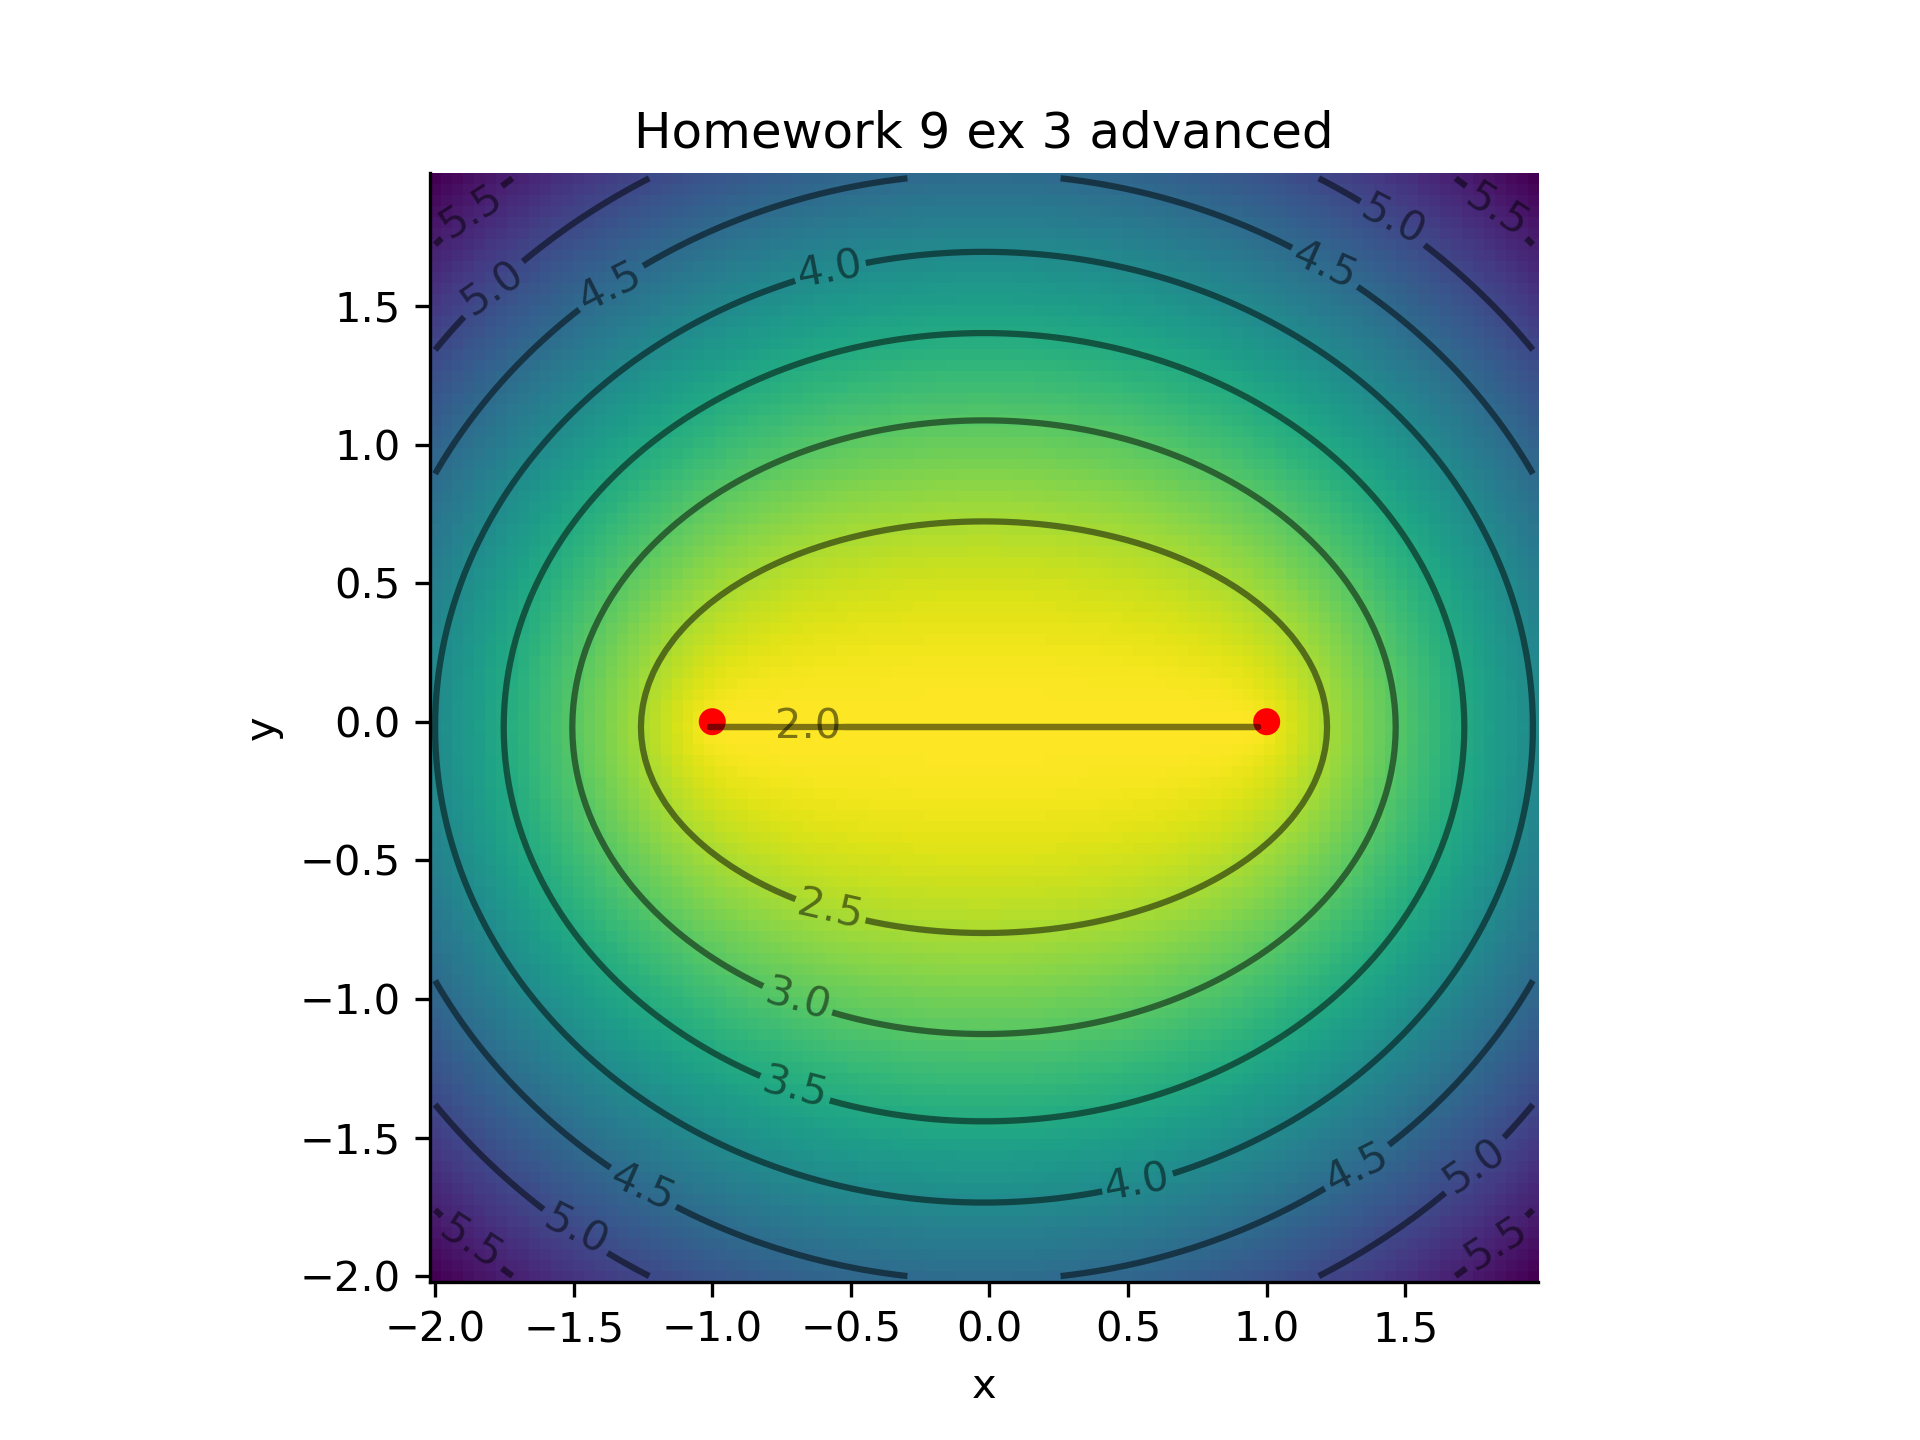
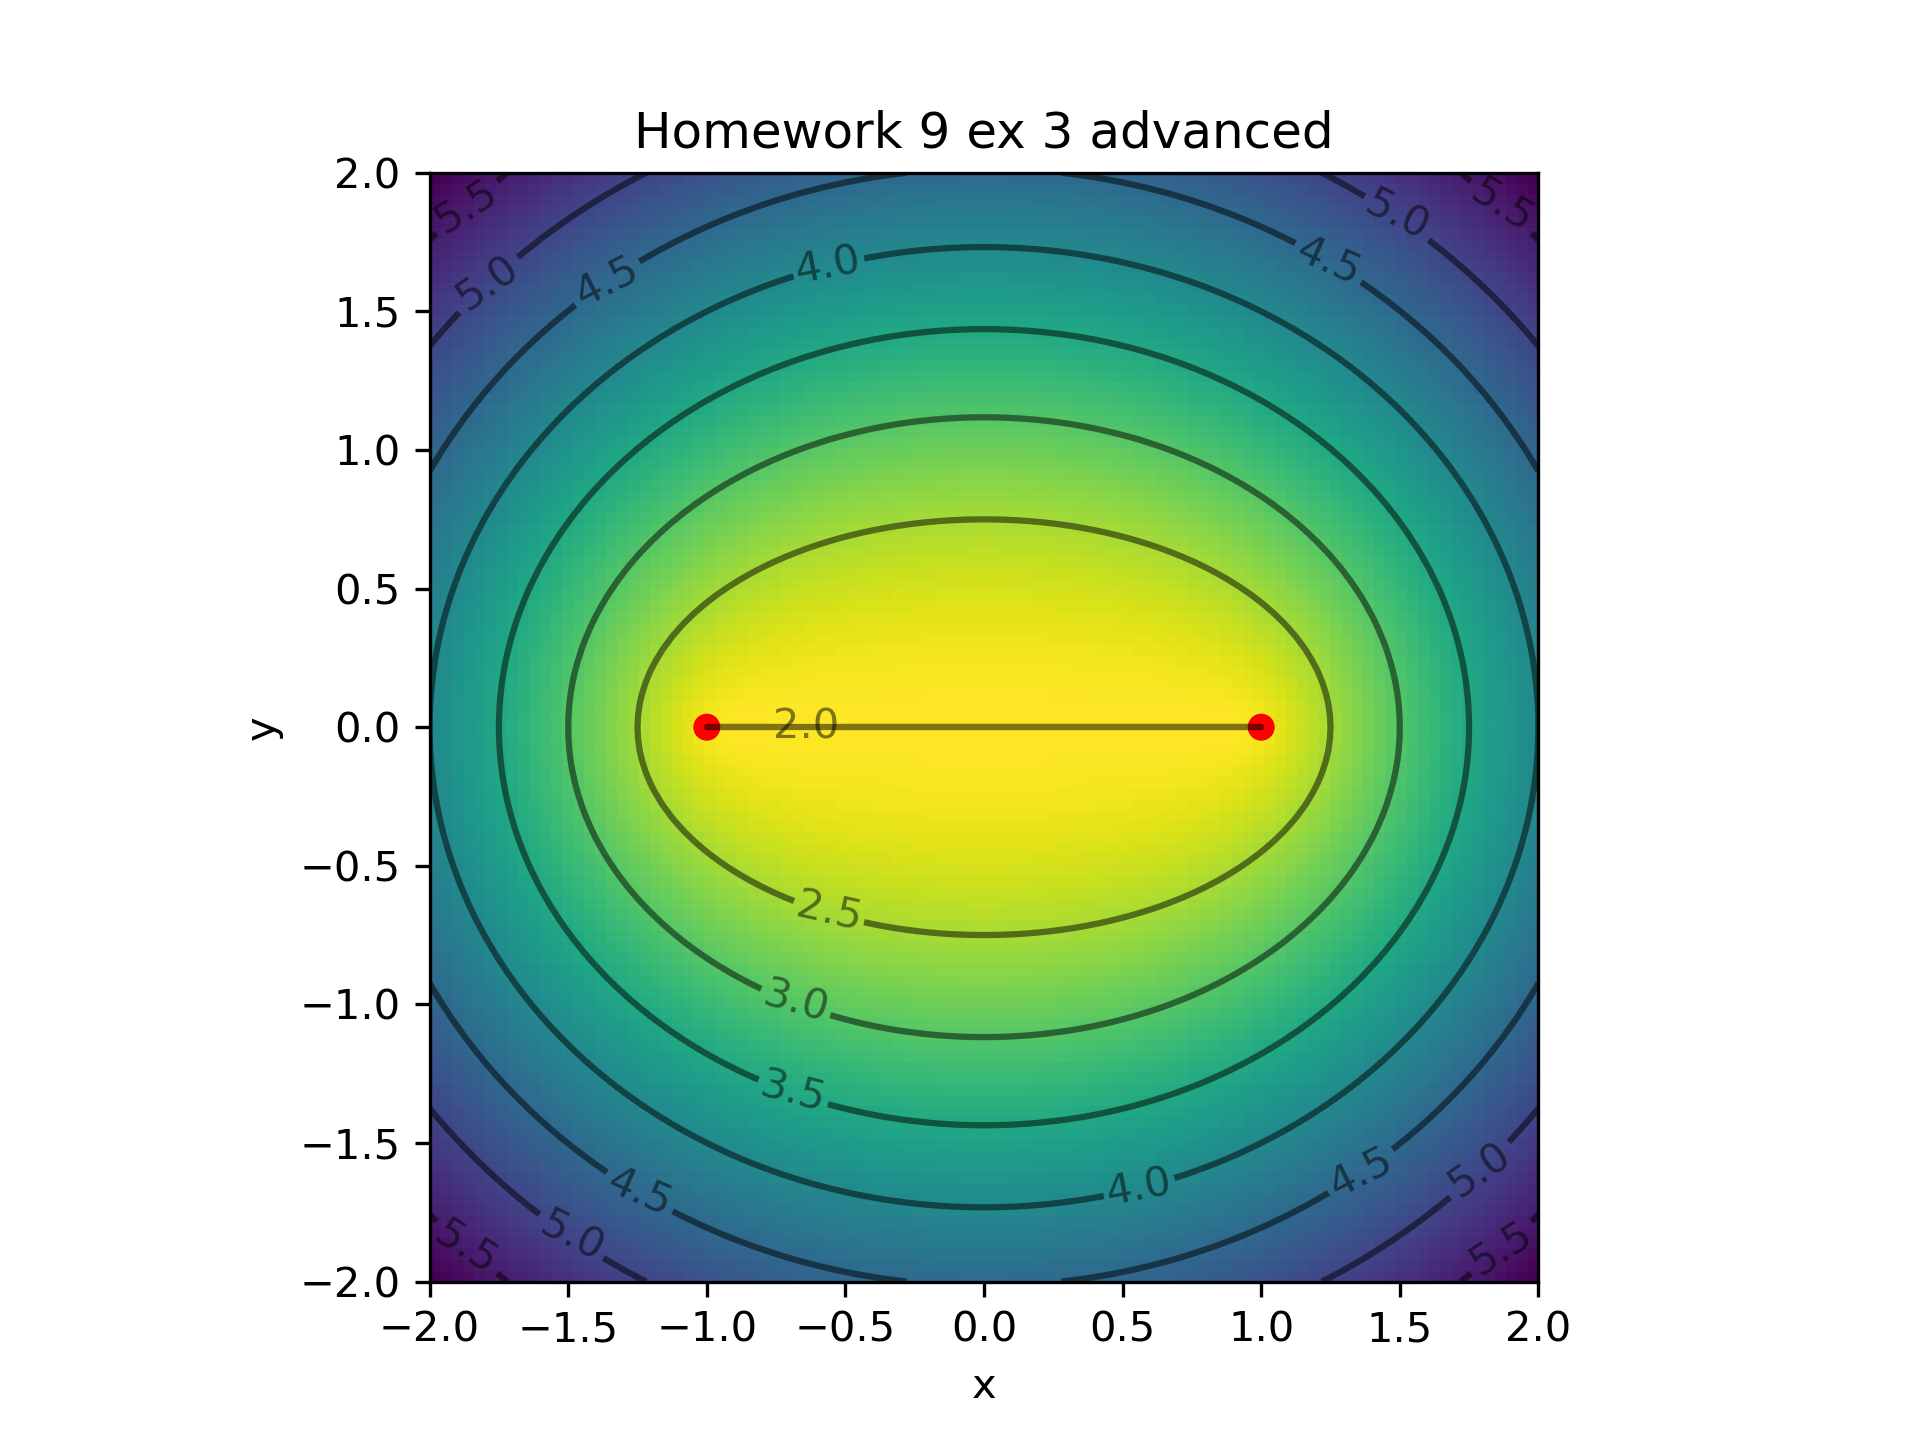
Homework 9 ex 3 correction

diff --git a/Homeworks/ex9-3.py b/Homeworks/ex9-3.py
@@ -42,37 +42,29 @@ fig, ax = plt.subplots(1, 1)
 
 # Focus definition and computations
 f1, f2 = (-1, 0), (1, 0)
-zzz = np.empty((nx*ny))
+zz = np.empty((nx*ny))
 for idx, point in enumerate(points.transpose()):
-    zzz[idx] = simple_ellipse((point[0], point[1]), f1, f2)
+    zz[idx] = simple_ellipse((point[0], point[1]), f1, f2)
 
 # Main image
-img = ax.imshow(zzz.reshape((nx, ny)), origin="lower", cmap="viridis_r")
+img = ax.imshow(
+    zz.reshape((nx, ny)), 
+    origin="lower", 
+    cmap="viridis_r", 
+    extent=(xmin, xmax, ymin, ymax)
+    )
 
 # Additional elements
-contours = ax.contour(zzz.reshape(nx, ny), colors='k', alpha=0.5)
+contours = ax.contour(
+    zz.reshape(nx, ny), 
+    colors='k', 
+    alpha=0.5, 
+    extent=(xmin, xmax, ymin, ymax)
+    )
 ax.clabel(contours)
-ax.scatter(
-    [(f1[0]-xmin)*nx/(xmax-xmin), (f2[0]-xmin)*nx/(xmax-xmin)],
-    [(f1[1]-ymin)*ny/(ymax-ymin), (f2[1]-ymin)*ny/(ymax-ymin)], 
-    [30, 30], 'r')
-ax.axis("off")
-axx = ax.secondary_xaxis(
-    "bottom", 
-    (
-        lambda x: x*((xmax-xmin)/nx)+xmin, 
-        lambda x: (x-xmin)*nx/(xmax-xmin)
-        ),
-    )
-axy = ax.secondary_yaxis(
-    "left", 
-    (
-        lambda y: y*(ymax-ymin)/ny+ymin, 
-        lambda y: (y-ymin)*ny/(ymax-ymin)
-        ),
-    )
-axx.set_xlabel("x")
-axy.set_ylabel("y")
+ax.scatter([f1[0], f2[0]], [f1[1], f2[1]], [30, 30], 'r')
+ax.set_xlabel("x")
+ax.set_ylabel("y")
 ax.set_title("Homework 9 ex 3 simple")
 
 # Figure saving or showing
@@ -243,32 +235,24 @@ f1, f2 = np.array((-1, 0)), np.array((1, 0))
 zz = np.array(ellipse(points, f1, f2))
 
 # Main image
-img = ax.imshow(zz.reshape(nx, ny), origin="lower", cmap="viridis_r")
+img = ax.imshow(
+    zz.reshape(nx, ny), 
+    origin="lower", 
+    cmap="viridis_r", 
+    extent=(xmin, xmax, ymin, ymax)
+    )
 
 # Additional elements
-contours = ax.contour(zz.reshape(nx, ny), colors='k', alpha=0.5)
+contours = ax.contour(
+    zz.reshape(nx, ny), 
+    colors='k', 
+    alpha=0.5, 
+    extent=(xmin, xmax, ymin, ymax)
+    )
 ax.clabel(contours)
-ax.scatter(
-    [(f1[0]-xmin)*nx/(xmax-xmin), (f2[0]-xmin)*nx/(xmax-xmin)],
-    [(f1[1]-ymin)*ny/(ymax-ymin), (f2[1]-ymin)*ny/(ymax-ymin)], 
-    [30, 30], 'r')
-ax.axis("off")
-axx = ax.secondary_xaxis(
-    "bottom", 
-    (
-        lambda x: x*((xmax-xmin)/nx)+xmin, 
-        lambda x: (x-xmin)*nx/(xmax-xmin)
-        ),
-    )
-axy = ax.secondary_yaxis(
-    "left", 
-    (
-        lambda y: y*(ymax-ymin)/ny+ymin, 
-        lambda y: (y-ymin)*ny/(ymax-ymin)
-        ),
-    )
-axx.set_xlabel("x")
-axy.set_ylabel("y")
+ax.scatter([f1[0], f2[0]],[f1[1], f2[1]], [30, 30], 'r')
+ax.set_xlabel("x")
+ax.set_ylabel("y")
 ax.set_title("Homework 9 ex 3 advanced")
 
 # Figure saving or showing
